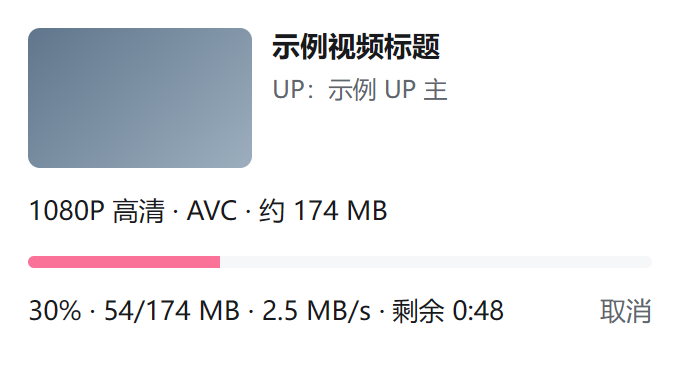
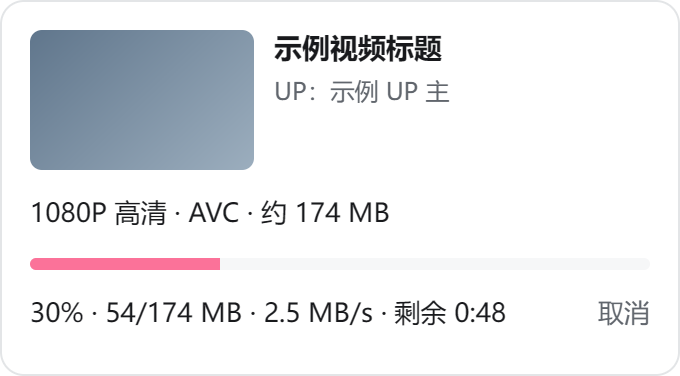
Round the README screenshot corners

diff --git a/scripts/screenshots.ts b/scripts/screenshots.ts
@@ -38,9 +38,15 @@ const h = await site.launch({ deviceScaleFactor: 2 });
 
 const shots: Record<string, Buffer> = {};
 async function capture(popup: Page, name: string): Promise<void> {
-  const readme = name === "downloading";
-  shots[name] = await popup.locator("main").screenshot(readme ? { path: path.join(images, `popup-${name}.png`) } : {});
-  if (readme) console.log(`docs/images/popup-${name}.png`);
+  shots[name] = await popup.locator("main").screenshot();
+  if (name !== "downloading") return;
+  // GitHub strips CSS from READMEs, so the rounded card has to be baked into the PNG.
+  const style = await popup.addStyleTag({
+    content: "html,body{background:transparent!important} main{background:var(--bg);border:1px solid var(--line);border-radius:12px}",
+  });
+  await popup.locator("main").screenshot({ path: path.join(images, `popup-${name}.png`), omitBackground: true });
+  await style.evaluate((el) => (el as Element).remove());
+  console.log(`docs/images/popup-${name}.png`);
 }
 
 const STORE_SHOTS: [string, string, string][] = [
